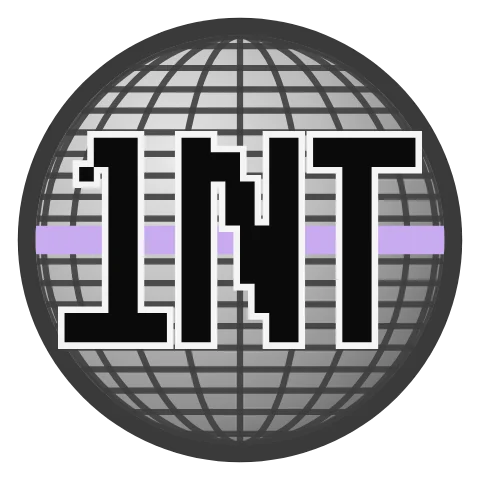
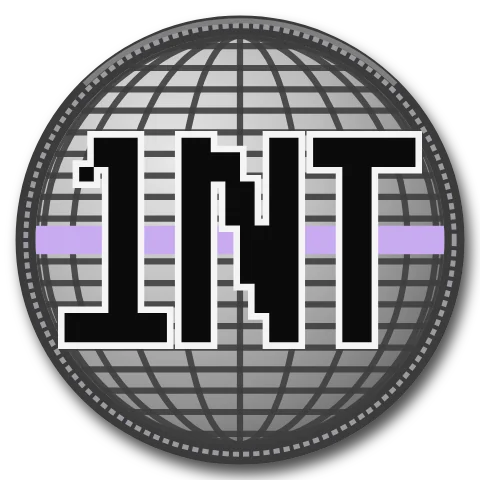
1NT: Night is the only jersey, with an embroidered crest and heat-pressed lettering (#490)
Drops the home and alternate kits from the renderer, guide and gallery. Night gains
a satin-stitched crest patch, glossy heat-pressed names and numbers with a stand-off
shadow, a stronger lilac equator glow, globe lines brightest at the chest, lilac
piping on the side panels, a woven jock tag, deeper black with weave texture and
rim light. New cover: the captain's back behind the front.

Claude-Session: https://claude.ai/code/session_01HcDrTf4yWcwj9oYhxx6sEJ

Changed region(s): [[0.0312, 0.0312, 1.0, 1.0]]

diff --git a/layouts/shortcodes/kitguide1nt.html b/layouts/shortcodes/kitguide1nt.html
@@ -66,11 +66,11 @@
 
 <section class="win" id="cover"><div class="win__title"><span class="win__title-text">1nt_kit_2026.pdf</span>{{ $win | safeHTML }}</div>
 <div class="kg-paper kg-cover">
-  <img class="kg-img" src="{{ printf "%s1nt-kit-hero.webp" $img | relURL }}" width="2400" height="1200" alt="1NT jerseys on a studio sweep: the away (black) front, the home (white-grey) back of LAURSEN_111 number 111, and the alternate (lilac) front">
+  <img class="kg-img" src="{{ printf "%s1nt-kit-hero.webp" $img | relURL }}" width="2400" height="1200" alt="the 1NT Night jersey on a studio sweep: the back of LAURSEN_111 number 111 behind the front with the crest">
   <div class="kg-cap">
     <p class="kg-kick">ESEA League · North America · jersey branding guide</p>
-    <h2 class="kg-title">1NT kit, 2026</h2>
-    <p>Three jerseys built from the team avatar: the wireframe globe, the glowing equator and the tall 1NT letters, with the crest as the chest mark. Home is the globe's grey-white, away is black, the alternate is lilac. Every rule below exists so a kit reads as 1NT at stream resolution, 720p in a corner of a webcam frame.</p>
+    <h2 class="kg-title">1NT Night, 2026</h2>
+    <p>One jersey, Night, built from the team avatar: a black shirt with the wireframe globe printed across it, the glowing lilac equator as its band, and the crest as the chest mark. Every rule below exists so it reads as 1NT at stream resolution, 720p in a corner of a webcam frame.</p>
   </div>
 </div></section>
 
@@ -89,7 +89,7 @@
       <ul class="kg-list">
         <li><b>Clear space:</b> a quarter of the crest's diameter on every side (the hatched area).</li>
         <li><b>Minimum size:</b> 40 mm on fabric, 24 px on screen. Below 24 px use the pixel avatar.</li>
-        <li><b>Equator colour</b> follows the kit: lilac on home and away, aquamarine on the alternate.</li>
+        <li><b>Patch:</b> embroidered, with a satin-stitched border, so it stands off the print.</li>
       </ul>
     </div>
   </div>
@@ -98,19 +98,18 @@
 <section class="win" id="palette"><div class="win__title"><span class="win__title-text">02_palette</span>{{ $win | safeHTML }}</div>
 <div class="kg-paper">
   <p class="kg-kick">02</p><h2 class="kg-h">Palette</h2>
-  <p>Grey, white and black carry the kit. Lilac is the team's colour and only ever appears as the equator, tipping and trim. Aquamarine is reserved for the alternate. No dark purple anywhere.</p>
+  <p>Black carries the shirt, white carries the names, grey carries the globe. Lilac is the team's colour and appears only as the equator, piping, tipping and trim. No dark purple, and no second accent.</p>
   <div class="kg-sw">
-    <div class="kg-chip"><i style="background:#c8aaf0"></i><div><b>Equator lilac</b>#C8AAF0 · 200 170 240<br>band, tipping, captain mark</div></div>
-    <div class="kg-chip"><i style="background:#7fffd4"></i><div><b>Aquamarine</b>#7FFFD4 · 127 255 212<br>alternate band and tipping only</div></div>
-    <div class="kg-chip"><i style="background:#ececec"></i><div><b>Globe white</b>#ECECEC · 236 236 236<br>home body</div></div>
+    <div class="kg-chip"><i style="background:#c8aaf0"></i><div><b>Equator lilac</b>#C8AAF0 · 200 170 240<br>band, piping, tipping, captain mark</div></div>
+    <div class="kg-chip"><i style="background:#f4f4f4"></i><div><b>Letter white</b>#F4F4F4 · 244 244 244<br>names, numbers, sponsor</div></div>
     <div class="kg-chip"><i style="background:#bdbdbd"></i><div><b>Silver</b>#BDBDBD · 189 189 189<br>crest shading</div></div>
-    <div class="kg-chip"><i style="background:#8c8c8c"></i><div><b>Wire grey</b>#8C8C8C · 140 140 140<br>globe lines on away</div></div>
-    <div class="kg-chip"><i style="background:#3a3a3a"></i><div><b>Steel</b>#3A3A3A · 58 58 58<br>mesh side panels, crest ring</div></div>
-    <div class="kg-chip"><i style="background:#141416"></i><div><b>Night</b>#141416 · 20 20 22<br>away body</div></div>
-    <div class="kg-chip"><i style="background:#0a0a0a"></i><div><b>Ink</b>#0A0A0A · 10 10 10<br>letters, collar, cuffs</div></div>
+    <div class="kg-chip"><i style="background:#8c8c8c"></i><div><b>Wire grey</b>#8C8C8C · 140 140 140<br>globe lines</div></div>
+    <div class="kg-chip"><i style="background:#2c2c30"></i><div><b>Steel</b>#2C2C30 · 44 44 48<br>mesh side panels</div></div>
+    <div class="kg-chip"><i style="background:#141416"></i><div><b>Night</b>#161619 · 22 22 25<br>body</div></div>
+    <div class="kg-chip"><i style="background:#0a0a0a"></i><div><b>Ink</b>#0A0A0A · 10 10 10<br>collar, cuffs, letter rims</div></div>
   </div>
-  <div class="kg-bar" aria-label="home kit colour share"><span style="flex:62;background:#ececec"></span><span style="flex:17;background:#3a3a3a"></span><span style="flex:14;background:#0a0a0a"></span><span style="flex:7;background:#c8aaf0"></span></div>
-  <p class="kg-note">Home kit by area: globe white 62%, steel 17%, ink 14%, lilac 7%. Lilac stays under a tenth of the shirt so it reads as an accent at stream size.</p>
+  <div class="kg-bar" aria-label="Night colour share"><span style="flex:64;background:#161619"></span><span style="flex:14;background:#2c2c30"></span><span style="flex:8;background:#0a0a0a"></span><span style="flex:7;background:#f4f4f4"></span><span style="flex:7;background:#c8aaf0"></span></div>
+  <p class="kg-note">By area: night 64%, steel 14%, ink 8%, white 7%, lilac 7%. Lilac stays under a tenth of the shirt so it reads as an accent, and glows, at stream size.</p>
 </div></section>
 
 <section class="win" id="lettering"><div class="win__title"><span class="win__title-text">03_lettering</span>{{ $win | safeHTML }}</div>
@@ -127,7 +126,7 @@
       <table class="kg-spec">
         <tr><th>Gamertag</th><td>pixel font, bolded, tracking +2%, cap height 5 cm, centred on the spine 17 cm below the collar, at most 44 cm wide. Set as written, case and underscores kept.</td></tr>
         <tr><th>Number</th><td>pixel font, bolded, 25 cm tall, centred on the spine with its middle on the equator band, the way the avatar's letters sit on its equator.</td></tr>
-        <tr><th>Rim</th><td>every letter and number gets a rim in the opposite neutral (white on light kits' black letters, black on away), 5% of the glyph height.</td></tr>
+        <tr><th>Rim</th><td>white letters with an ink rim, heat-pressed: a soft gloss down each glyph and a shadow where the film stands off the cloth.</td></tr>
         <tr><th>Small text</th><td>sponsor and league lines in the site's pixel font, tracked wide.</td></tr>
       </table>
     </div>
@@ -138,8 +137,8 @@
 <div class="kg-paper">
   <p class="kg-kick">04</p><h2 class="kg-h">Anatomy</h2>
   <div class="kg-anat">
-    <img class="kg-img" src="{{ printf "%s1nt-kit-anatomy.webp" $img | relURL }}" width="1000" height="920" alt="home jersey front with numbered callouts" loading="lazy">
-    {{- range (slice (slice 1 50 9) (slice 2 50 37) (slice 3 38.8 25.7) (slice 4 61.2 25.7) (slice 5 71 49) (slice 6 50 78) (slice 7 26.5 66) (slice 8 15.2 36.5) (slice 9 21.3 29.6) (slice 10 78.7 29.6)) }}
+    <img class="kg-img" src="{{ printf "%s1nt-kit-anatomy.webp" $img | relURL }}" width="1000" height="920" alt="Night jersey front with numbered callouts" loading="lazy">
+    {{- range (slice (slice 1 50 9) (slice 2 50 37) (slice 3 38.8 25.7) (slice 4 61.2 25.7) (slice 5 71 49) (slice 6 50 78) (slice 7 26.5 66) (slice 8 15.2 36.5) (slice 9 21.3 29.6) (slice 10 78.7 29.6) (slice 11 65.2 80.7)) }}
     <span class="kg-pin" style="left:{{ index . 1 }}%;top:{{ index . 2 }}%">{{ index . 0 }}</span>
     {{- end }}
   </div>
@@ -149,11 +148,12 @@
     <li>Sponsor: the ARKNDJL glyph and wordmark, wearer's right chest, 11 cm off the centre line.</li>
     <li>Captain mark, a C in a lilac-edged tab, mirroring the sponsor on the left chest (captain only).</li>
     <li>Equator band, 3.6 cm, full width, with 3 mm ink pinlines above and below.</li>
-    <li>Wireframe globe, sublimated over the whole body at 13% (home) to 30% (away).</li>
-    <li>Steel mesh side panels from armpit to hem, for airflow under headset-length sessions.</li>
+    <li>Wireframe globe, sublimated in wire grey, brightest at the chest and fading toward the hem and shoulders.</li>
+    <li>Steel mesh side panels from armpit to hem with lilac piping, for airflow under headset-length sessions.</li>
     <li>Ink cuffs with tipping, set-in short sleeves.</li>
     <li>Player flag, centred on the wearer's right sleeve and level with the cuff.</li>
     <li>ARKNDJL glyph, centred on the wearer's left sleeve, level with the cuff.</li>
+    <li>Woven jock tag at the wearer's left hem: 1NT and ESEA NA on ink, lilac border.</li>
   </ol>
   <table class="kg-spec">
     <tr><th>Fabric</th><td>140 gsm sublimated polyester interlock; mesh side panels; rib collar and cuffs.</td></tr>
@@ -162,21 +162,19 @@
   </table>
 </div></section>
 
-<section class="win" id="kits"><div class="win__title"><span class="win__title-text">05_kits</span>{{ $win | safeHTML }}</div>
+<section class="win" id="kits"><div class="win__title"><span class="win__title-text">05_kit</span>{{ $win | safeHTML }}</div>
 <div class="kg-paper kg-kit">
-  <p class="kg-kick">05</p><h2 class="kg-h">Kits</h2>
-  {{- range (slice (slice "home" "Home · Globe" "#ececec" "#c8aaf0" "The avatar's lit globe: white-grey body, ink letters with a white rim, lilac equator. Default for every match.") (slice "away" "Away · Night" "#141416" "#c8aaf0" "Black body with the globe lines in wire grey, white letters with an ink rim, lilac equator. Worn when the opponent is light.") (slice "alternate" "Alternate · Lilac" "#c8aaf0" "#7fffd4" "Lilac body, ink letters, aquamarine equator and tipping. LAN days and playoffs.")) }}
-  <h3><span class="kg-dot" style="background:{{ index . 2 }}"></span><span class="kg-dot" style="background:{{ index . 3 }}"></span>{{ index . 1 }}</h3>
-  <p>{{ index . 4 }}</p>
-  <img class="kg-img" src="{{ printf "%s1nt-kit-%s.webp" $img (index . 0) | relURL }}" width="2000" height="920" alt="1NT {{ index . 0 }} jersey, front and back" loading="lazy">
-  {{- end }}
+  <p class="kg-kick">05</p><h2 class="kg-h">The kit</h2>
+  <h3><span class="kg-dot" style="background:#161619"></span><span class="kg-dot" style="background:#c8aaf0"></span>Night</h3>
+  <p>1NT's only jersey, for every match, online and LAN. Black body with the globe lines in wire grey, the lilac equator glowing across chest and back, white heat-pressed names and numbers, an embroidered crest and a woven jock tag at the hem.</p>
+  <img class="kg-img" src="{{ printf "%s1nt-kit-night.webp" $img | relURL }}" width="2000" height="920" alt="1NT Night jersey, front and back" loading="lazy">
 </div></section>
 
 <section class="win" id="roster"><div class="win__title"><span class="win__title-text">06_roster</span>{{ $win | safeHTML }}</div>
 <div class="kg-paper">
   <p class="kg-kick">06</p><h2 class="kg-h">Roster</h2>
-  <p>The starting five in home backs. Esports kits usually carry no numbers; 1NT's are worn for the look and players choose their own. The captain's is his tag's 111.</p>
-  <div class="kg-wrap"><img class="kg-img" style="min-width:560px" src="{{ printf "%s1nt-kit-roster.webp" $img | relURL }}" width="3000" height="552" alt="home jersey backs for LAURSEN_111 111, Saintz 5, mf_ 23, Chawk 4, rezzah 9" loading="lazy"></div>
+  <p>The starting five's backs. Esports kits usually carry no numbers; 1NT's are worn for the look and players choose their own. The captain's is his tag's 111.</p>
+  <div class="kg-wrap"><img class="kg-img" style="min-width:560px" src="{{ printf "%s1nt-kit-roster.webp" $img | relURL }}" width="3000" height="552" alt="Night jersey backs for LAURSEN_111 111, Saintz 5, mf_ 23, Chawk 4, rezzah 9" loading="lazy"></div>
   <table class="kg-spec kg-spec--grid">
     <tr><th>Gamertag</th><th>No.</th><th>Sleeve flag</th></tr>
     <tr><td>LAURSEN_111 (C)</td><td>111</td><td>Denmark</td></tr>
@@ -194,12 +192,12 @@
     <div><h3>Do</h3><ul class="kg-list">
       <li>Keep the band level and unbroken; only the crest or number may sit over it, centred on it.</li>
       <li>Rim every letter, so it holds on the globe lines.</li>
-      <li>Wear away against light opponents and on bright LAN stages; home everywhere else.</li>
+      <li>Wear Night for every match; there is no change kit.</li>
       <li>Match the headset or webcam frame to the band colour on stream.</li>
     </ul></div>
     <div><h3>Don't</h3><ul class="kg-list">
       <li>Recolour the crest or put the globe on a dark purple.</li>
-      <li>Mix aquamarine into home or away.</li>
+      <li>Add a second accent colour; lilac is the only one.</li>
       <li>Set names or numbers in any face but the pixel font, or leave them one pixel thin.</li>
       <li>Add sponsor marks inside the band or over the crest.</li>
     </ul></div>

diff --git a/scripts/jersey_1nt.py b/scripts/jersey_1nt.py
@@ -21,18 +21,16 @@ FONT = os.path.join(ROOT, "brand", "fonts", "gothic", "GrenzeGotisch.ttf")
 PIXEL = os.path.join(ROOT, "static", "fonts", "mspgothic-pixel.woff2")
 OUT = os.path.join(ROOT, "static", "img", "art")
 
-LILAC, AQUA = "#c8aaf0", "#7fffd4"
+LILAC = "#c8aaf0"
 INK, CHAR, STEEL, GREY, SILVER, CHALK, WHITE = "#0a0a0a", "#2a2a2c", "#3a3a3a", "#8c8c8c", "#bdbdbd", "#e8e8e8", "#f4f4f4"
 
 # body, trim (collar/cuffs), panel (mesh sides), grid (globe lines) + its opacity, band, letters, rim (letter halo),
 # light/shadow: how strong the highlight and multiply shading are on this base
+# 1NT has one kit, Night (Noah, Oct 27 2026): black body, grey globe lines, glowing lilac equator, white letters.
+# weave: fabric-noise strength (black needs more to read as cloth)
 KITS = {
-    "home": dict(name="Globe", base="#ececec", trim=INK, panel=STEEL, grid=INK, gop=.13, band=LILAC, ink=INK, rim=WHITE,
-                 tip=LILAC, light=.30, shade=1.0),
-    "away": dict(name="Night", base="#141416", trim=INK, panel=STEEL, grid=GREY, gop=.30, band=LILAC, ink=WHITE, rim=INK,
-                 tip=LILAC, light=.55, shade=.55),
-    "alternate": dict(name="Lilac", base=LILAC, trim=INK, panel=CHAR, grid=INK, gop=.14, band=AQUA, ink=INK, rim=WHITE,
-                      tip=AQUA, light=.32, shade=.9),
+    "night": dict(name="Night", base="#161619", trim=INK, panel="#2c2c30", grid=GREY, gop=.34, band=LILAC, ink=WHITE, rim=INK,
+                  tip=LILAC, light=.62, shade=.6, weave=.15),
 }
 # starting five: gamertag, number, flag; the captain wears C on the chest
 ROSTER = [("LAURSEN_111", "111", "dk", True), ("Saintz", "5", "us", False), ("mf_", "23", "us", False),
@@ -171,11 +169,15 @@ def crest(cx, cy, r, band=LILAC, uid="c"):
             f'<defs><radialGradient id="cg{uid}" cx=".34" cy=".3" r=".8"><stop offset="0" stop-color="{CHALK}"/>'
             f'<stop offset=".45" stop-color="{SILVER}"/><stop offset=".8" stop-color="{GREY}"/><stop offset="1" stop-color="#666"/></radialGradient>'
             f'<clipPath id="cc{uid}"><circle r="46"/></clipPath></defs>'
-            f'<circle r="50" fill="{STEEL}"/><circle r="46" fill="url(#cg{uid})"/>'
+            f'<filter id="cs{uid}" x="-20%" y="-20%" width="140%" height="140%"><feDropShadow dx="1.2" dy="2.2" stdDeviation="1.6" flood-color="#000" flood-opacity=".7"/></filter>'
+            f'<circle r="50.5" fill="{STEEL}" filter="url(#cs{uid})"/><circle r="46" fill="url(#cg{uid})"/>'
             f'<g clip-path="url(#cc{uid})">{grid(0, 0, 46, "#3e3e3e", .9, 1.4)}'
             f'<rect x="-50" y="-3.2" width="100" height="6.4" fill="{band}"/></g>'
             + f'<path d="{AVATAR_1NT}" transform="scale({50 / 15.2:.4f}) translate(-16 -16)" fill="{INK}" stroke="{WHITE}" '
-            f'stroke-width=".9" paint-order="stroke" stroke-linejoin="miter"/></g>')
+            f'stroke-width=".9" paint-order="stroke" stroke-linejoin="miter"/>'
+            # satin-stitched border and a raised edge catching the light from the upper left
+            f'<circle r="48.2" fill="none" stroke="#9a9aa0" stroke-width="1.1" stroke-dasharray="1.4 .9"/>'
+            f'<path d="M -35 -35 A 50 50 0 0 1 35 -35" fill="none" stroke="#fff" stroke-opacity=".35" stroke-width="1.2"/></g>')
 
 
 def glyph(x, y, size, color):
@@ -224,7 +226,12 @@ def jersey(kit, side, player=None, uid="j"):
  <feComposite in2="SourceAlpha" operator="in"/></filter>
 <filter id="b8{u}"><feGaussianBlur stdDeviation="8"/></filter>
 <filter id="b40{u}" x="-50%" y="-50%" width="200%" height="200%"><feGaussianBlur stdDeviation="40"/></filter>
-<filter id="g{u}" x="-10%" y="-200%" width="120%" height="500%"><feGaussianBlur stdDeviation="10"/></filter>
+<filter id="g{u}" x="-10%" y="-200%" width="120%" height="500%"><feGaussianBlur stdDeviation="14"/></filter>
+<linearGradient id="gl{u}" x1="0" x2="0" y1="0" y2="1"><stop offset="0" stop-color="#ffffff"/><stop offset=".55" stop-color="#f0f0f3"/><stop offset="1" stop-color="#c9c9cf"/></linearGradient>
+<filter id="hp{u}" x="-10%" y="-10%" width="120%" height="130%"><feDropShadow dx="0" dy="2.5" stdDeviation="1.8" flood-color="#000" flood-opacity=".65"/></filter>
+<radialGradient id="gm{u}" gradientUnits="userSpaceOnUse" cx="500" cy="450" r="520"><stop offset="0" stop-color="#fff"/><stop offset=".55" stop-color="#fff" stop-opacity=".75"/><stop offset="1" stop-color="#fff" stop-opacity=".25"/></radialGradient>
+<mask id="gk{u}"><rect width="1000" height="920" fill="url(#gm{u})"/></mask>
+<linearGradient id="pp{u}" x1="0" x2="1" y1="0" y2="1"><stop offset="0" stop-color="#fff" stop-opacity=".035"/><stop offset="1" stop-color="#fff" stop-opacity="0"/></linearGradient>
 </defs>"""
     blur = {}
     def blurf(sd):
@@ -234,8 +241,8 @@ def jersey(kit, side, player=None, uid="j"):
 
     neck = NECK_FRONT if side == "front" else NECK_BACK
     p = []  # print, clipped to the body and warped with it
-    p.append(grid(500, 470, 440, k["grid"], k["gop"]))
-    p.append(f'<rect x="100" y="428" width="800" height="44" fill="{k["band"]}" opacity=".55" filter="url(#g{u})"/>')
+    p.append(f'<g mask="url(#gk{u})">{grid(500, 470, 440, k["grid"], k["gop"])}</g>')
+    p.append(f'<rect x="100" y="424" width="800" height="52" fill="{k["band"]}" opacity=".75" filter="url(#g{u})"/>')
     p.append(f'<rect x="100" y="432" width="800" height="36" fill="{k["band"]}"/>')
     p.append(f'<rect x="100" y="422" width="800" height="3" fill="{k["ink"]}" opacity=".55"/><rect x="100" y="475" width="800" height="3" fill="{k["ink"]}" opacity=".55"/>')
     if side == "front":
@@ -249,14 +256,19 @@ def jersey(kit, side, player=None, uid="j"):
         if cap:
             p.append(f'<g transform="translate({500 + CHEST_DX} {CHEST_Y})"><rect x="-22" y="-26" width="44" height="52" fill="{k["trim"]}" stroke="{k["band"]}" stroke-width="3"/>'
                      + gothic("C", 0, 0, 28, None, k["band"]) + "</g>")
+        # jock tag: woven label at the wearer's left hem, as on match shirts
+        p.append(f'<g transform="translate(652 742)" filter="url(#hp{u})"><rect x="-38" y="-20" width="76" height="40" fill="{k["trim"]}" stroke="{k["band"]}" stroke-width="2"/>'
+                 f'<text y="-2" text-anchor="middle" font-family="MS PGothic Pixel" font-size="16" fill="{k["band"]}">1NT</text>'
+                 f'<text x=".5" y="13" text-anchor="middle" font-family="MS PGothic Pixel" font-size="9" letter-spacing="1" fill="{WHITE}" opacity=".8">ESEA NA</text></g>')
         # sleeve patches: centred on each sleeve, level with the cuff (so upright when the arm hangs)
         p.append(f'<g transform="translate({SLEEVE_X} {SLEEVE_Y}) rotate({SLEEVE_A})">{flag(fl, -24, -16, 48)}</g>')
         p.append(f'<g transform="translate({1000 - SLEEVE_X} {SLEEVE_Y}) rotate({-SLEEVE_A})">{glyph(-19, -19, 38, k["ink"])}</g>')
     else:
         # back: number centred on the band, nameplate centred above it, both on the centre line
         # site pixel font: nameplate above, number centred on the band like the avatar's letters on its equator
-        p.append(gothic(tag, 500, 258, 46, None, k["ink"], k["rim"], 6, .02, maxw=420))
-        p.append(gothic(num, 500, 450, 236, None, k["ink"], k["rim"], 12, -.02, maxw=360))
+        # heat-pressed: a soft gloss down the letters and a shadow where the film stands off the cloth
+        p.append(f'<g filter="url(#hp{u})">' + gothic(tag, 500, 258, 46, None, f"url(#gl{u})", k["rim"], 6, .02, maxw=420) + "</g>")
+        p.append(f'<g filter="url(#hp{u})">' + gothic(num, 500, 450, 236, None, f"url(#gl{u})", k["rim"], 12, -.02, maxw=360) + "</g>")
         p.append(crest(500, 146, 24, k["band"], u + "n"))
         p.append(f'<text x="501.5" y="770" text-anchor="middle" font-family="MS PGothic Pixel" font-size="16" letter-spacing="3" fill="{k["ink"]}" opacity=".7">ESEA · NORTH AMERICA</text>')
 
@@ -264,6 +276,7 @@ def jersey(kit, side, player=None, uid="j"):
     c = []
     c.append(f'<path d="{PANEL_L}" fill="{k["panel"]}"/><path d="{PANEL_R}" fill="{k["panel"]}"/>')
     c.append(f'<path d="{PANEL_L}" fill="url(#m{u})"/><path d="{PANEL_R}" fill="url(#m{u})"/>')
+    c.append(f'<path d="{SEAM_L}" fill="none" stroke="{k["band"]}" stroke-width="3"/><path d="{SEAM_R}" fill="none" stroke="{k["band"]}" stroke-width="3"/>')
     c.append(f'<path d="{CUFF_L}" fill="{k["trim"]}"/><path d="{CUFF_R}" fill="{k["trim"]}"/>')
     c.append(f'<path d="{TIP_L}" stroke="{k["tip"]}" stroke-width="4"/><path d="{TIP_R}" stroke="{k["tip"]}" stroke-width="4"/>')
     if side == "front":  # the inside of the back neck shows above the front collar (ghost mannequin)
@@ -299,7 +312,9 @@ def jersey(kit, side, player=None, uid="j"):
  {st}
  <g style="mix-blend-mode:multiply"><rect x="0" y="0" width="1000" height="920" fill="url(#cy{u})"/><rect x="0" y="0" width="1000" height="920" fill="url(#vy{u})"/>{folds}</g>
  <g style="mix-blend-mode:screen"><ellipse cx="{410 if side == 'front' else 590}" cy="330" rx="130" ry="170" fill="#fff" fill-opacity="{.20 * k['light']:.3f}" filter="url(#b40{u})"/>{shines}</g>
- <rect x="0" y="0" width="1000" height="920" fill="#888" filter="url(#t{u})" opacity=".10" style="mix-blend-mode:overlay"/>
+ <rect x="0" y="0" width="1000" height="920" fill="#888" filter="url(#t{u})" opacity="{k.get('weave', .10)}" style="mix-blend-mode:overlay"/>
+ <rect x="0" y="0" width="1000" height="920" fill="url(#pp{u})" style="mix-blend-mode:screen"/>
+ <path d="{BODY}" fill="none" stroke="#fff" stroke-opacity="{.10 * k['light']:.3f}" stroke-width="14" filter="url(#{blurf(6)})" style="mix-blend-mode:screen"/>
 </g>
 <path d="{BODY}" fill="none" stroke="#000" stroke-opacity=".28" stroke-width="2"/>
 </g>"""
@@ -319,27 +334,26 @@ def svg_pair(kit, player=None, uid="p"):
 
 
 def svg_hero():
-    """Cover: home back (captain) in front of the away front and the alternate, on a studio sweep."""
-    bg = ('<defs><radialGradient id="sw" cx=".5" cy=".42" r=".75"><stop offset="0" stop-color="#f7f7f7"/>'
-          '<stop offset=".6" stop-color="#dcdcdc"/><stop offset="1" stop-color="#b9b9bb"/></radialGradient>'
-          '<radialGradient id="fl" cx=".5" cy=".5" r=".5"><stop offset="0" stop-color="#000" stop-opacity=".28"/>'
+    """Cover: the captain's back behind the front, overlapped like a product shot, on a studio sweep."""
+    bg = ('<defs><radialGradient id="sw" cx=".5" cy=".4" r=".8"><stop offset="0" stop-color="#f2f2f3"/>'
+          '<stop offset=".55" stop-color="#d4d4d7"/><stop offset="1" stop-color="#a7a7ac"/></radialGradient>'
+          '<radialGradient id="fl" cx=".5" cy=".5" r=".5"><stop offset="0" stop-color="#000" stop-opacity=".34"/>'
           '<stop offset="1" stop-color="#000" stop-opacity="0"/></radialGradient></defs>'
           '<rect width="2400" height="1200" fill="url(#sw)"/>')
-    floor = ''.join(f'<ellipse cx="{x}" cy="{y}" rx="{rx}" ry="34" fill="url(#fl)"/>' for x, y, rx in ((560, 1110, 380), (1840, 1110, 380), (1200, 1150, 460)))
+    floor = ''.join(f'<ellipse cx="{x}" cy="{y}" rx="{rx}" ry="36" fill="url(#fl)"/>' for x, y, rx in ((820, 1110, 440), (1550, 1150, 500)))
     def at(x, y, s, g):
         return f'<g transform="translate({x} {y}) scale({s})">{g}</g>'
     return (f'<svg xmlns="http://www.w3.org/2000/svg" viewBox="0 0 2400 1200" width="2400" height="1200">{bg}{floor}'
-            + at(60, 200, 1.0, shadowed(jersey("away", "front", None, "ha"), "ha"))
-            + at(1340, 200, 1.0, shadowed(jersey("alternate", "front", None, "hl"), "hl"))
-            + at(640, 70, 1.12, shadowed(jersey("home", "back", None, "hh"), "hh"))
+            + at(330, 150, .98, shadowed(jersey("night", "back", None, "hb"), "hb"))
+            + at(1000, 80, 1.1, shadowed(jersey("night", "front", None, "hf"), "hf"))
             + '</svg>')
 
 
 def svg_roster():
-    """The starting five, home backs."""
+    """The starting five's backs."""
     parts = []
     for i, pl in enumerate(ROSTER):
-        parts.append(f'<g transform="translate({i * 1000} 0)">{shadowed(jersey("home", "back", pl, f"r{i}"), f"r{i}")}</g>')
+        parts.append(f'<g transform="translate({i * 1000} 0)">{shadowed(jersey("night", "back", pl, f"r{i}"), f"r{i}")}</g>')
     return f'<svg xmlns="http://www.w3.org/2000/svg" viewBox="0 0 5000 920" width="5000" height="920">{"".join(parts)}</svg>'
 
 
@@ -406,7 +420,7 @@ def main():
         os.makedirs(preview, exist_ok=True)
     items = [("1nt-kit-hero", svg_hero(), 1200, 600, 2),
              ("1nt-kit-roster", svg_roster(), 2000, 368, 1.5),
-             ("1nt-kit-anatomy", svg_front("home"), 500, 460, 2)]
+             ("1nt-kit-anatomy", svg_front("night"), 500, 460, 2)]
     items.append(("1nt-kit-crest", '<svg xmlns="http://www.w3.org/2000/svg" viewBox="-54 -54 108 108" width="108" height="108">'
                   + crest(0, 0, 50, LILAC, "x") + "</svg>", 240, 240, 2))
     items += [(f"1nt-kit-{k}", svg_pair(k, None, k[:2]), 1000, 460, 2) for k in KITS]

diff --git a/content/arkndjl.md b/content/arkndjl.md
@@ -123,8 +123,8 @@ src = "/img/art/1nt-kit-hero.webp"
 title = "1NT kit"
 artist = "arkndjl"
 year = "2026"
-note = "esports jerseys for 1NT: away, home (LAURSEN_111 #111) and alternate. branding guide at /arkndjl-1nt-kit/."
-alt = "1NT esports jerseys: black away front, white-grey home back of LAURSEN_111 number 111, lilac alternate front"
+note = "1NT Night, the team's esports jersey: LAURSEN_111 #111 back and the crest front. branding guide at /arkndjl-1nt-kit/."
+alt = "1NT Night esports jersey: the back of LAURSEN_111 number 111 and the front with the crest"
 group = "mine"
 +++
 

diff --git a/content/laursen_111.md b/content/laursen_111.md
@@ -33,7 +33,7 @@ draft = false
 - ESEA Intermediate S50 | Bomb Squad · 3rd place · $750 | S50 | | #px-bombsquad
 {{< /winlist >}}
 {{< winlist title="kit.exe" icon="pointer" >}}
-- [1NT kit 2026](/arkndjl-1nt-kit/) | jersey branding guide: home, away, alternate | | | #px-1nt
+- [1NT kit 2026](/arkndjl-1nt-kit/) | Night jersey branding guide | | | #px-1nt
 {{< /winlist >}}
 {{< /desk >}}
 {{< desk tab="LAURSEN_111" >}}
